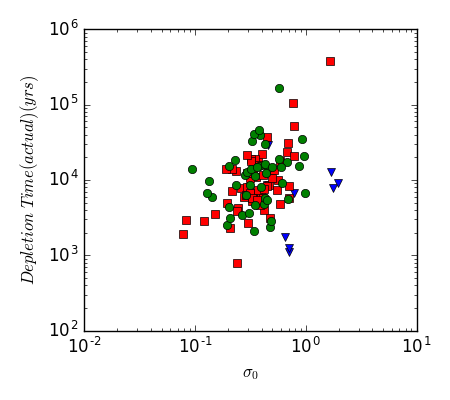
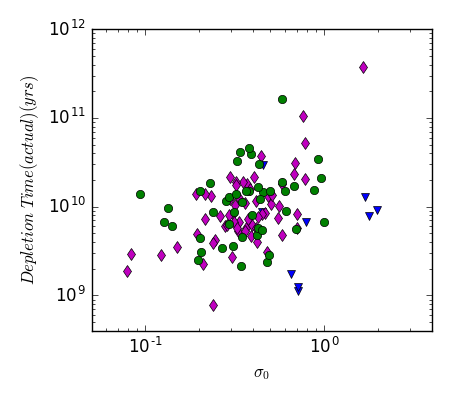
Star Formation - figures cleaned up/ units fixed

diff --git a/star_formation.py b/star_formation.py
@@ -44,7 +44,7 @@ interarm_in = np.where(mytable['Interarm'] == True)
 outliers = np.where(mytable['Outliers'] == True)
 
 #Calculate new depletion time
-Tdep2 = M_den / SFRSD
+Tdep2 = M_den *1E6 / SFRSD
 
 ##PLOTS##
 #Depletion time vs Surface Density
@@ -52,8 +52,10 @@ figure = plt.figure(figsize=(4.5,4))
 plt.xlabel('$\Sigma\ ((M_{\odot})/pc^2)$')
 plt.ylabel('$Depletion\ Time (yrs)$')
 plt.loglog(M_den[centre_in],Tdep[centre_in],marker='v',c='b',linestyle='None')
-plt.loglog(M_den[arm_in],Tdep[arm_in],marker='s',c='r',linestyle='None')
+plt.loglog(M_den[arm_in],Tdep[arm_in],marker='d',c='m',linestyle='None')
 plt.loglog(M_den[interarm_in],Tdep[interarm_in],marker='o',c='g',linestyle='None')
+plt.ylim(1E9, 1.5E10)
+plt.xlim(10,1E4)
 plt.tight_layout() 	
 plt.savefig('Tdep_Mden_matplotlib.png')
 
@@ -62,8 +64,10 @@ figure = plt.figure(figsize=(4.5,4))
 plt.ylabel('$Depletion\ Time (yrs)$')
 plt.xlabel('$\sigma_0$')
 plt.loglog(sigma0[centre_in],Tdep[centre_in],marker='v',c='b',linestyle='None')
-plt.loglog(sigma0[arm_in],Tdep[arm_in],marker='s',c='r',linestyle='None')
+plt.loglog(sigma0[arm_in],Tdep[arm_in],marker='d',c='m',linestyle='None')
 plt.loglog(sigma0[interarm_in],Tdep[interarm_in],marker='o',c='g',linestyle='None')
+plt.ylim(1E9, 1.5E10)
+plt.xlim(5E-2,4)
 plt.tight_layout() 	
 plt.savefig('Tdep_sigma0_matplotlib.png')
 
@@ -72,8 +76,10 @@ figure = plt.figure(figsize=(4.5,4))
 plt.xlabel('$\Sigma\ ((M_{\odot})/pc^2)$')
 plt.ylabel('$Depletion\ Time (actual) (yrs)$')
 plt.loglog(M_den[centre_in],Tdep2[centre_in],marker='v',c='b',linestyle='None')
-plt.loglog(M_den[arm_in],Tdep2[arm_in],marker='s',c='r',linestyle='None')
+plt.loglog(M_den[arm_in],Tdep2[arm_in],marker='d',c='m',linestyle='None')
 plt.loglog(M_den[interarm_in],Tdep2[interarm_in],marker='o',c='g',linestyle='None')
+plt.ylim(4E8, 1E12)
+plt.xlim(10,1E4)
 plt.tight_layout() 	
 plt.savefig('Tdep2_Mden_matplotlib.png')
 
@@ -82,8 +88,10 @@ figure = plt.figure(figsize=(4.5,4))
 plt.ylabel('$Depletion\ Time (actual) (yrs)$')
 plt.xlabel('$\sigma_0$')
 plt.loglog(sigma0[centre_in],Tdep2[centre_in],marker='v',c='b',linestyle='None')
-plt.loglog(sigma0[arm_in],Tdep2[arm_in],marker='s',c='r',linestyle='None')
+plt.loglog(sigma0[arm_in],Tdep2[arm_in],marker='d',c='m',linestyle='None')
 plt.loglog(sigma0[interarm_in],Tdep2[interarm_in],marker='o',c='g',linestyle='None')
+plt.ylim(4E8, 1E12)
+plt.xlim(5E-2,4)
 plt.tight_layout() 	
 plt.savefig('Tdep2_sigma0_matplotlib.png')
 
